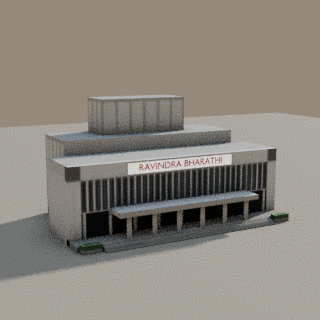
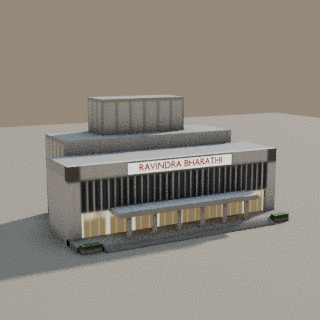
Landmarks (Blender): parked Secretariat, Ravindra Bharathi, NTR memorial, Indira Park + Sanjeevaiah Park gates (gated, not packed)
Claude-Session: https://claude.ai/code/session_01619dqqNeTEBSYCYAx3TzBc

diff --git a/nostalgia/tools/blender/_lm_city.py b/nostalgia/tools/blender/_lm_city.py
@@ -3,7 +3,8 @@
 CITY group (PARKED: owner must-haves that ship once models load lazily per GLB; every builder is
 registered only under NOSTALGIA_PARKED=1, see the end of this file, and never goes in the real pack):
 the four RTC X Roads cinemas (Sandhya 70MM, Odeon, Sudarshan 35MM, Devi 70MM), Gokul Chat (Koti),
-Paradise (Secunderabad), the Secunderabad Clock Tower, Koti bus stand and Imlibun MGBS.
+Paradise (Secunderabad), the Secunderabad Clock Tower, Koti bus stand and Imlibun MGBS; the A.P.
+Secretariat (Saifabad), Ravindra Bharathi, and the Indira Park / Sanjeevaiah Park entrance gates.
 
 Budget path: L.finish_proxy. The detail (painted facades, fins, frames, steps, canopies, columns,
 buses, jars...) is modelled freely as `hi` and baked into one atlas on a hand-built low shell
@@ -1666,7 +1667,11 @@ def build_ravindra_bharathi(A):
     side = Fac(YB - YF, HF, WH, seed=8, noise=0.0).dirt(3.0, alpha=0.25)
     side.band(HF - 3.6, HF, GR, 0.4)
     P.append(fbox('foyer', 0, (YF + YB) / 2, 80, YB - YF, 0, HF, white, faces={'f': Fac(80, HF, DK, noise=0.0), 'l': side, 'r': side}, top_mat=grey))
-    lo.append(S('s_foyer', -40.1, 40.1, YF - 2.4, YB, 0, HF + 0.1))
+    lo.append(S('s_foyer', -40.1, 40.1, YF - 2.4, YB, 10.0, HF + 0.1))
+    lo.append(S('s_foyer_g', -40.1, 40.1, YF - 1.3, YB, 0, 10.0))
+    for sx in (-1, 1):
+        xa, xb = sorted((sx * 35.9, sx * 40.1))
+        lo.append(S('s_endpier', xa, xb, YF - 2.4, YF - 1.3, 0, 10.0))
     # end piers (solid white frame of the front)
     for s in (-1, 1):
         xa, xb = sorted((s * 36.0, s * 40.0))
@@ -1696,8 +1701,11 @@ def build_ravindra_bharathi(A):
     for i in range(25):
         gl.rect(i / 24 - 0.003, 0, i / 24 + 0.003, 1, '#9aa0a4')
     gl.rect(0, 0.74, 1, 0.78, '#9aa0a4')
+    for i in range(9):          # the square columns in front of the glass (painted: the quad is proud of them)
+        x = i / 8
+        gl.rect(x - 0.012, 0, x + 0.012, 1, '#d6d1c6').rect(x - 0.012, 0, x - 0.004, 1, '#bdb8ad')
     uv_gl = sh.put(gl)
-    sh.quad(uv_gl, 70.0, 8.0, (0, YF - 0.06, G + 4.0))
+    sh.quad(uv_gl, 71.2, 8.2, (0, YF - 1.36, G + 4.1))
     for i in range(9):
         x = -35.0 + i * 70.0 / 8
         P.append(B('gcol', x - 0.6, x + 0.6, YF - 1.2, YF, G, 10.0, white))
@@ -1816,7 +1824,7 @@ def build_indira_park_gate(A):
     # forecourt paving and the path through
     P.append(B('pave', -20, 20, -7, 7, 0, 0.12, stone))
     lo.append(quad('s_pave', [(-20, -7, 0.13), (20, -7, 0.13), (20, 7, 0.13), (-20, 7, 0.13)]))
-    finish(A, P, lo, sh, 224, ao=3.0)
+    finish(A, P, lo, sh, 208, ao=3.0)
     L.shots(A, az=-28, el=10, extra=[{'name': 'front', 'view': {'az': 0, 'el': 5, 'fov': 30, 'pad': 1.05}}])
 
 
